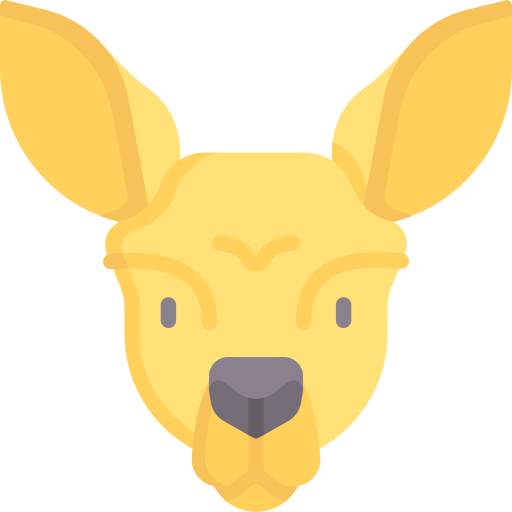
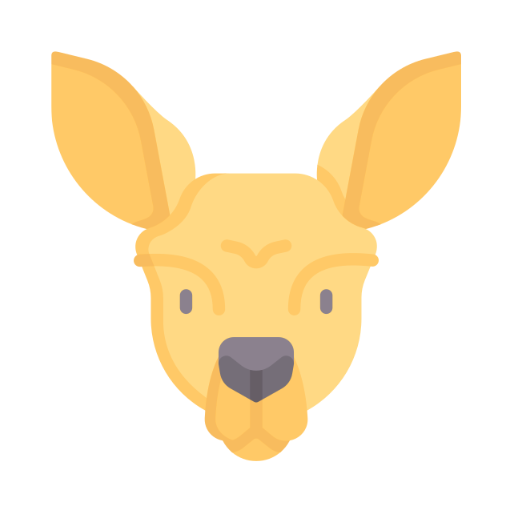
Ajustes pontuais no chat, home, foto do perfil

diff --git a/components/AnimatedSplashScreen.tsx b/components/AnimatedSplashScreen.tsx
@@ -1,5 +1,12 @@
 import { useEffect, useState, useRef } from 'react';
-import { View, StyleSheet, Image, Dimensions, Animated } from 'react-native';
+import {
+  View,
+  StyleSheet,
+  Image,
+  Dimensions,
+  Animated,
+  useColorScheme,
+} from 'react-native';
 
 const { width, height } = Dimensions.get('window');
 
@@ -12,6 +19,7 @@ export function AnimatedSplashScreen({
 }: AnimatedSplashScreenProps) {
   const opacity = useRef(new Animated.Value(1)).current;
   const [isReady, setIsReady] = useState(false);
+  const colorScheme = useColorScheme();
 
   useEffect(() => {
     // Wait for GIF to play (adjust timing based on GIF duration)
@@ -34,14 +42,16 @@ export function AnimatedSplashScreen({
     }
   }, [isReady, opacity, onComplete]);
 
+  const backgroundColor = colorScheme === 'dark' ? '#000' : '#fff';
+  const gifSource =
+    colorScheme === 'dark'
+      ? require('@/assets/videos/Pocketme.gif')
+      : require('@/assets/videos/Pocket.gif');
+
   return (
-    <Animated.View style={[styles.container, { opacity }]}>
+    <Animated.View style={[styles.container, { opacity, backgroundColor }]}>
       <View style={styles.imageContainer}>
-        <Image
-          source={require('@/assets/videos/Pocket.gif')}
-          style={styles.gif}
-          resizeMode="contain"
-        />
+        <Image source={gifSource} style={styles.gif} resizeMode="contain" />
       </View>
     </Animated.View>
   );
@@ -54,7 +64,6 @@ const styles = StyleSheet.create({
     left: 0,
     right: 0,
     bottom: 0,
-    backgroundColor: '#ffffff',
     justifyContent: 'center',
     alignItems: 'center',
     zIndex: 9999,

diff --git a/app/(auth)/signup.tsx b/app/(auth)/signup.tsx
@@ -8,11 +8,11 @@ import {
   Alert,
   KeyboardAvoidingView,
   Platform,
+  Image,
 } from 'react-native';
 import { router } from 'expo-router';
 import { supabase } from '@/lib/supabase';
 import { useTheme } from '@/lib/theme';
-import { KangarooIcon } from '@/components/KangarooIcon';
 
 export default function SignupScreen() {
   const { theme } = useTheme();
@@ -63,10 +63,10 @@ export default function SignupScreen() {
     >
       <View style={styles.content}>
         <View style={styles.logoContainer}>
-          <KangarooIcon
-            size={120}
-            color={theme.background === '#000' ? '#FFF' : '#000'}
-            inverted={theme.background !== '#000'}
+          <Image
+            source={require('@/assets/images/kangaroo.png')}
+            style={styles.logo}
+            resizeMode="contain"
           />
         </View>
         <Text style={[styles.title, { color: theme.text }]}>Pocket</Text>
@@ -165,6 +165,10 @@ const styles = StyleSheet.create({
   logoContainer: {
     alignItems: 'center',
     marginBottom: 16,
+  },
+  logo: {
+    width: 120,
+    height: 120,
   },
   title: {
     fontSize: 56,

diff --git a/app/(auth)/login.tsx b/app/(auth)/login.tsx
@@ -8,11 +8,11 @@ import {
   Alert,
   KeyboardAvoidingView,
   Platform,
+  Image,
 } from 'react-native';
 import { router } from 'expo-router';
 import { supabase } from '@/lib/supabase';
 import { useTheme } from '@/lib/theme';
-import { KangarooIcon } from '@/components/KangarooIcon';
 
 export default function LoginScreen() {
   const { theme } = useTheme();
@@ -47,10 +47,10 @@ export default function LoginScreen() {
     >
       <View style={styles.content}>
         <View style={styles.logoContainer}>
-          <KangarooIcon
-            size={120}
-            color={theme.background === '#000' ? '#FFF' : '#000'}
-            inverted={theme.background !== '#000'}
+          <Image
+            source={require('@/assets/images/kangaroo.png')}
+            style={styles.logo}
+            resizeMode="contain"
           />
         </View>
         <Text style={[styles.title, { color: theme.text }]}>Pocket</Text>
@@ -137,6 +137,10 @@ const styles = StyleSheet.create({
   logoContainer: {
     alignItems: 'center',
     marginBottom: 16,
+  },
+  logo: {
+    width: 120,
+    height: 120,
   },
   title: {
     fontSize: 56,

diff --git a/app.config.js b/app.config.js
@@ -7,11 +7,6 @@ export default {
     icon: './assets/icon.png',
     userInterfaceStyle: 'automatic',
     scheme: 'pocket',
-    splash: {
-      image: './assets/images/Pocket.png',
-      resizeMode: 'contain',
-      backgroundColor: '#ffffff',
-    },
     assetBundlePatterns: ['**/*'],
     ios: {
       supportsTablet: true,

diff --git a/FIX-SPLASH-AND-AUTH-SCREENS.md b/FIX-SPLASH-AND-AUTH-SCREENS.md
@@ -1,0 +1,148 @@
+# Fix: Remover Splash Nativo e Usar Kangaroo.png nas Telas de Auth
+
+## 🐛 Problemas
+
+1. **Splash nativo aparecendo antes do AnimatedSplashScreen**: Uma imagem de canguru preto e branco aparecia antes do splash screen animado (GIF)
+2. **Ícone SVG nas telas de login/signup**: As telas usavam `KangarooIcon` (SVG) que tinha problemas de cor/inversão
+
+## 🔍 Causa Raiz
+
+1. **Splash nativo**: Configurado em `app.config.js` com a imagem `./assets/images/Pocket.png`
+2. **Ícone SVG**: Usava lógica de inversão complexa que não ficava consistente
+
+## ✅ Solução Aplicada
+
+### 1. Removido Splash Nativo
+
+**Arquivo:** `app.config.js`
+
+**Antes:**
+```javascript
+export default {
+  expo: {
+    name: 'Pocket',
+    slug: 'pocket',
+    version: '1.0.0',
+    orientation: 'portrait',
+    icon: './assets/icon.png',
+    userInterfaceStyle: 'automatic',
+    scheme: 'pocket',
+    splash: {
+      image: './assets/images/Pocket.png',
+      resizeMode: 'contain',
+      backgroundColor: '#ffffff',
+    },
+    assetBundlePatterns: ['**/*'],
+    // ...
+  }
+}
+```
+
+**Depois:**
+```javascript
+export default {
+  expo: {
+    name: 'Pocket',
+    slug: 'pocket',
+    version: '1.0.0',
+    orientation: 'portrait',
+    icon: './assets/icon.png',
+    userInterfaceStyle: 'automatic',
+    scheme: 'pocket',
+    assetBundlePatterns: ['**/*'],  // Splash removido ✅
+    // ...
+  }
+}
+```
+
+**Resultado:** Agora apenas o `AnimatedSplashScreen` (com o GIF) é exibido, sem nenhuma tela antes dele.
+
+### 2. Atualizado Tela de Login
+
+**Arquivo:** `app/(auth)/login.tsx`
+
+**Mudanças:**
+
+1. **Removido import do KangarooIcon:**
+```typescript
+// Antes
+import { KangarooIcon } from '@/components/KangarooIcon';
+
+// Depois
+import { Image } from 'react-native';
+```
+
+2. **Substituído SVG por PNG:**
+```typescript
+// Antes
+<View style={styles.logoContainer}>
+  <KangarooIcon
+    size={120}
+    color={theme.background === '#000' ? '#FFF' : '#000'}
+    inverted={theme.background !== '#000'}
+  />
+</View>
+
+// Depois
+<View style={styles.logoContainer}>
+  <Image
+    source={require('@/assets/images/kangaroo.png')}
+    style={styles.logo}
+    resizeMode="contain"
+  />
+</View>
+```
+
+3. **Adicionado estilo:**
+```typescript
+logo: {
+  width: 120,
+  height: 120,
+},
+```
+
+### 3. Atualizado Tela de Signup
+
+**Arquivo:** `app/(auth)/signup.tsx`
+
+Mesmas mudanças aplicadas na tela de login:
+- Removido import do `KangarooIcon`
+- Adicionado import do `Image`
+- Substituído SVG por PNG
+- Adicionado estilo `logo`
+
+## 📊 Resultado Final
+
+### Splash Screen
+- ✅ **Antes:** Canguru preto/branco estático → GIF animado
+- ✅ **Depois:** GIF animado apenas (sem tela intermediária)
+
+### Telas de Login e Signup
+- ✅ **Antes:** Ícone SVG com cor dinâmica complexa
+- ✅ **Depois:** Imagem PNG colorida do canguru (kangaroo.png)
+- ✅ Funciona perfeitamente em modo claro e escuro
+- ✅ Sem problemas de inversão de cores
+
+## 📝 Arquivos Modificados
+
+1. `app.config.js` (linha 10: removida configuração splash)
+2. `app/(auth)/login.tsx` (linhas 11, 50-54, 141-144)
+3. `app/(auth)/signup.tsx` (linhas 11, 66-70, 169-172)
+
+## ⚠ IMPORTANTE: Rebuild Necessário
+
+Como modificamos o `app.config.js` (removemos a configuração de splash), é **OBRIGATÓRIO** fazer um novo build:
+
+```bash
+# Para iOS (TestFlight)
+eas build --platform ios --profile production
+```
+
+A mudança no splash screen nativo só terá efeito após um novo build. As telas de login/signup funcionarão imediatamente.
+
+## 🎯 Imagem Usada
+
+**`assets/images/kangaroo.png`**: Canguru amarelo/dourado colorido que é usado em:
+- Tela de Login
+- Tela de Signup
+- Consistente com a identidade visual do app
